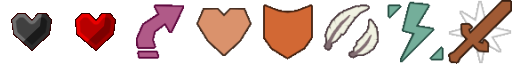
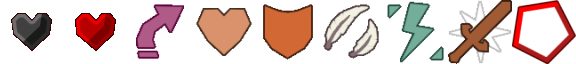
[+] Scroll handle

diff --git a/src/scene/hud.c b/src/scene/hud.c
@@ -60,6 +60,21 @@ void draw_hud_hp(win_t *win, int hp)
     }
 }
 
+void draw_hud_cursor(win_t *win, int select)
+{
+    sfIntRect rect = {8 * 64, 0, 64, 64};
+    sfVector2f pos = {654 + 71 * select, 977};
+    sfVector2f scale = {0.75, 0.75};
+
+
+    if (select < 0 || select > 8)
+        return;
+    sfSprite_setScale(win->game->ef->sprite, scale);
+    sfSprite_setTextureRect(win->game->ef->sprite, rect);
+    sfSprite_setPosition(win->game->ef->sprite, pos);
+    sfRenderWindow_drawSprite(win->win, win->game->ef->sprite, 0);
+}
+
 void draw_hud(win_t *win)
 {
     player_t *ply = win->game->players->next->data;
@@ -68,4 +83,5 @@ void draw_hud(win_t *win)
     sfSprite_setScale(win->game->ef->sprite, scale);
     draw_hud_hp(win, ply->hp);
     draw_hud_bar(win, ply->inventory[3]);
+    draw_hud_cursor(win, ply->select);
 }

diff --git a/src/managers.c b/src/managers.c
@@ -10,10 +10,20 @@
 
 void keys_manager(win_t *win, sfEvent event)
 {
+    player_t *ply;
+
     sfKeyboard_isKeyPressed(sfKeyI) && win->menu == 3 ? win->menu = 5 : 0;
     if (event.type == sfEvtKeyPressed && sfKeyboard_isKeyPressed(sfKeyEscape)) {
         win->menu == 3 ? win->menu = 4 : 0;
         win->menu == 5 ? win->menu = 3 : 0;
+    }
+    if (event.type == sfEvtMouseWheelScrolled && win->menu == 3) {
+        sfMouseWheelEvent *event2 = (void *)(&event);
+        printf("%i %i\n", event2->x, event2->y);
+        ply = win->game->players->next->data;
+        event2->x < 0 ? ply->select-- : ply->select++;
+        ply->select < 0 ? ply->select = 8 : 0;
+        ply->select %= 9;
     }
 }
 

diff --git a/src/player.c b/src/player.c
@@ -21,6 +21,7 @@ int player_add_player(game_t *game)
     player->hp = 0;
     player->inventory = init_inventory();
     player->anim = init_player_animator();
+    player->select = 0;
     lld_insert(game->players, 0, player);
     return (1);
 }

diff --git a/src/rpg.h b/src/rpg.h
@@ -225,6 +225,7 @@ typedef struct player
     char floor;
     animator_t *anim;
     int hp;
+    int select;
     int **inventory;
 } player_t;
 
